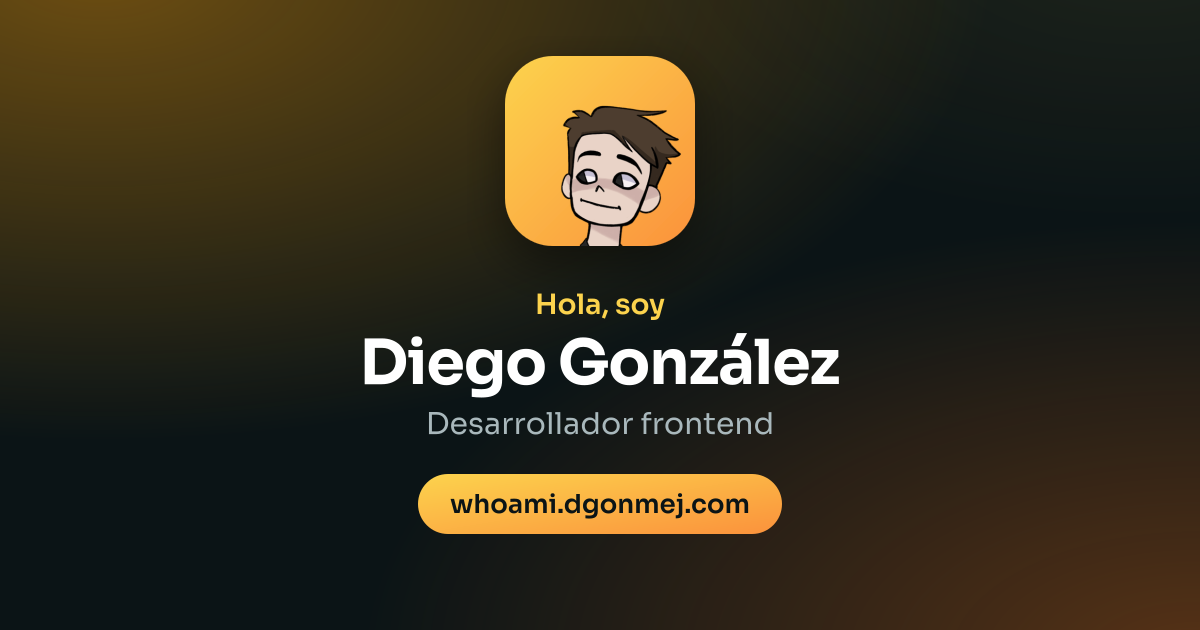
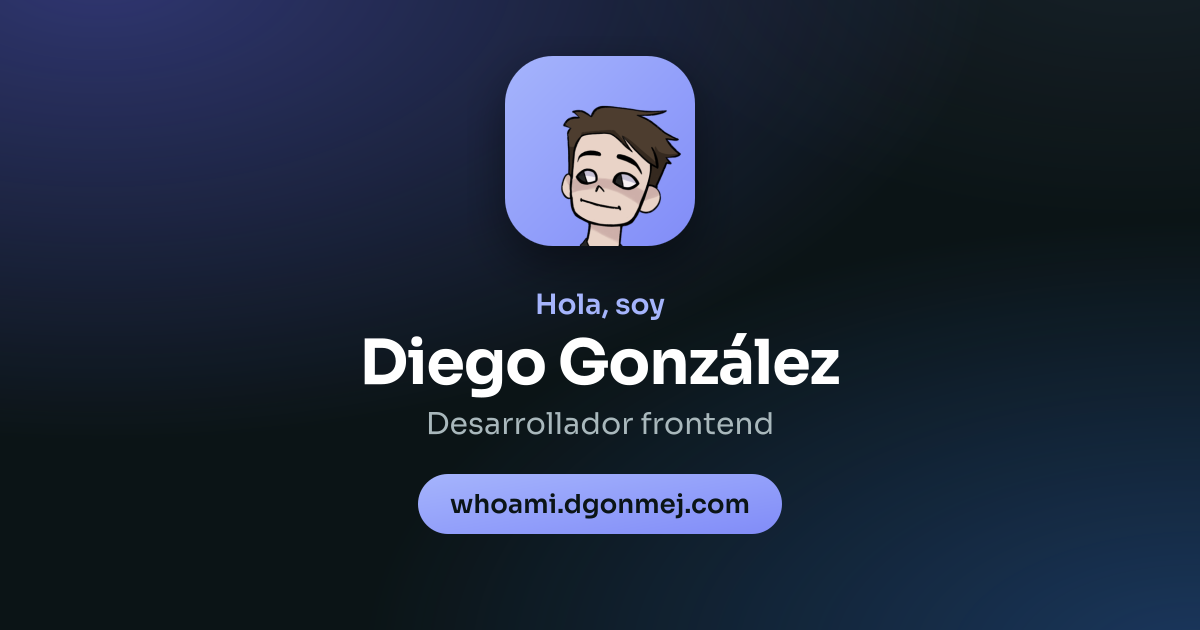
Switch whoami to the Índigo colour

diff --git a/src/styles/global.css b/src/styles/global.css
@@ -1,83 +1,83 @@
 /*
  * Estilos de whoami. Los componentes vienen de dgonmej-ui; aquí se personalizan sus tokens y se maqueta la página.
- * Color de la familia dgonmej: Atardecer (ámbar a naranja) (manual de marca en Code/brand) y Sora como fuente.
+ * Color de la familia dgonmej: Índigo (lavanda a índigo) (manual de marca en Code/brand) y Sora como fuente.
  * Todos los pares de color cumplen WCAG AA: el acento sobre el fondo y el texto de los botones.
  */
 
 :root {
   --ui-font-family: 'Sora', -apple-system, BlinkMacSystemFont, system-ui, sans-serif;
   --ui-font-family-display: 'Sora', -apple-system, BlinkMacSystemFont, system-ui, sans-serif;
-  --ui-color-primary: #c2410c;
-  --ui-color-primary-hover: #9a3412;
-  --ui-color-primary-text: #c2410c;
-  --ui-color-primary-tint: rgb(194 65 12 / 0.12);
-  --ui-color-primary-glow: rgb(194 65 12 / 0.35);
-  --ui-color-focus: #c2410c;
+  --ui-color-primary: #4338ca;
+  --ui-color-primary-hover: #3730a3;
+  --ui-color-primary-text: #4338ca;
+  --ui-color-primary-tint: rgb(67 56 202 / 0.12);
+  --ui-color-primary-glow: rgb(67 56 202 / 0.35);
+  --ui-color-focus: #4338ca;
   --ui-color-primary-contrast: #ffffff;
-  --ui-gradient-primary: linear-gradient(180deg, #d4520f 0%, #c2410c 100%);
+  --ui-gradient-primary: linear-gradient(180deg, #4f46e5 0%, #4338ca 100%);
   --ui-gradient-ambient:
-    radial-gradient(60% 50% at 8% 0%, rgb(245 158 11 / 0.16), transparent 70%),
-    radial-gradient(50% 45% at 100% 8%, rgb(249 115 22 / 0.14), transparent 70%),
+    radial-gradient(60% 50% at 8% 0%, rgb(99 102 241 / 0.16), transparent 70%),
+    radial-gradient(50% 45% at 100% 8%, rgb(59 130 246 / 0.14), transparent 70%),
     radial-gradient(55% 50% at 60% 100%, rgb(236 72 153 / 0.07), transparent 70%);
   /* Colores del aro de la foto de perfil (avatar de dgonmej-ui) */
-  --ui-color-ring-1: #f59e0b;
-  --ui-color-ring-2: #fb923c;
-  --ui-color-ring-3: #fcd34d;
+  --ui-color-ring-1: #6366f1;
+  --ui-color-ring-2: #818cf8;
+  --ui-color-ring-3: #a5b4fc;
   /* Retrato de la cabecera */
   --site-portrait:
-    radial-gradient(70% 60% at 20% 15%, #fcd34d, transparent 70%),
-    radial-gradient(60% 60% at 90% 90%, #fb923c, transparent 70%),
-    linear-gradient(160deg, #f59e0b, #c2410c);
+    radial-gradient(70% 60% at 20% 15%, #c7d2fe, transparent 70%),
+    radial-gradient(60% 60% at 90% 90%, #818cf8, transparent 70%),
+    linear-gradient(160deg, #6366f1, #4338ca);
   --site-max: 1120px;
 }
 
 [data-theme='dark'] {
-  --ui-color-primary: #fb923c;
-  --ui-color-primary-hover: #fdba74;
-  --ui-color-primary-text: #fb923c;
-  --ui-color-primary-tint: rgb(251 146 60 / 0.18);
-  --ui-color-primary-glow: rgb(251 146 60 / 0.35);
-  --ui-color-focus: #fb923c;
+  --ui-color-primary: #a5b4fc;
+  --ui-color-primary-hover: #c7d2fe;
+  --ui-color-primary-text: #a5b4fc;
+  --ui-color-primary-tint: rgb(165 180 252 / 0.18);
+  --ui-color-primary-glow: rgb(165 180 252 / 0.35);
+  --ui-color-focus: #a5b4fc;
   --ui-color-primary-contrast: #0b1416;
-  --ui-gradient-primary: linear-gradient(180deg, #fdba74 0%, #fb923c 100%);
+  --ui-gradient-primary: linear-gradient(180deg, #c7d2fe 0%, #a5b4fc 100%);
   --ui-gradient-ambient:
-    radial-gradient(60% 50% at 8% 0%, rgb(245 158 11 / 0.2), transparent 70%),
-    radial-gradient(50% 45% at 100% 8%, rgb(249 115 22 / 0.12), transparent 70%),
+    radial-gradient(60% 50% at 8% 0%, rgb(99 102 241 / 0.2), transparent 70%),
+    radial-gradient(50% 45% at 100% 8%, rgb(59 130 246 / 0.12), transparent 70%),
     radial-gradient(55% 50% at 60% 100%, rgb(236 72 153 / 0.05), transparent 70%);
   /* Colores del aro de la foto de perfil (avatar de dgonmej-ui) */
-  --ui-color-ring-1: #c2410c;
-  --ui-color-ring-2: #b45309;
-  --ui-color-ring-3: #fb923c;
+  --ui-color-ring-1: #4338ca;
+  --ui-color-ring-2: #1d4ed8;
+  --ui-color-ring-3: #a5b4fc;
   /* Retrato de la cabecera */
   --site-portrait:
-    radial-gradient(70% 60% at 20% 15%, #78350f, transparent 70%),
-    radial-gradient(60% 60% at 90% 90%, #7c2d12, transparent 70%),
-    linear-gradient(160deg, #9a3412, #431407);
+    radial-gradient(70% 60% at 20% 15%, #312e81, transparent 70%),
+    radial-gradient(60% 60% at 90% 90%, #1e3a8a, transparent 70%),
+    linear-gradient(160deg, #3730a3, #1e1b4b);
 }
 
 @media (prefers-color-scheme: dark) {
   :root:not([data-theme='light']) {
-    --ui-color-primary: #fb923c;
-    --ui-color-primary-hover: #fdba74;
-    --ui-color-primary-text: #fb923c;
-    --ui-color-primary-tint: rgb(251 146 60 / 0.18);
-    --ui-color-primary-glow: rgb(251 146 60 / 0.35);
-    --ui-color-focus: #fb923c;
+    --ui-color-primary: #a5b4fc;
+    --ui-color-primary-hover: #c7d2fe;
+    --ui-color-primary-text: #a5b4fc;
+    --ui-color-primary-tint: rgb(165 180 252 / 0.18);
+    --ui-color-primary-glow: rgb(165 180 252 / 0.35);
+    --ui-color-focus: #a5b4fc;
     --ui-color-primary-contrast: #0b1416;
-    --ui-gradient-primary: linear-gradient(180deg, #fdba74 0%, #fb923c 100%);
+    --ui-gradient-primary: linear-gradient(180deg, #c7d2fe 0%, #a5b4fc 100%);
     --ui-gradient-ambient:
-      radial-gradient(60% 50% at 8% 0%, rgb(245 158 11 / 0.2), transparent 70%),
-      radial-gradient(50% 45% at 100% 8%, rgb(249 115 22 / 0.12), transparent 70%),
+      radial-gradient(60% 50% at 8% 0%, rgb(99 102 241 / 0.2), transparent 70%),
+      radial-gradient(50% 45% at 100% 8%, rgb(59 130 246 / 0.12), transparent 70%),
       radial-gradient(55% 50% at 60% 100%, rgb(236 72 153 / 0.05), transparent 70%);
     /* Colores del aro de la foto de perfil (avatar de dgonmej-ui) */
-    --ui-color-ring-1: #c2410c;
-    --ui-color-ring-2: #b45309;
-    --ui-color-ring-3: #fb923c;
+    --ui-color-ring-1: #4338ca;
+    --ui-color-ring-2: #1d4ed8;
+    --ui-color-ring-3: #a5b4fc;
     /* Retrato de la cabecera */
     --site-portrait:
-      radial-gradient(70% 60% at 20% 15%, #78350f, transparent 70%),
-      radial-gradient(60% 60% at 90% 90%, #7c2d12, transparent 70%),
-      linear-gradient(160deg, #9a3412, #431407);
+      radial-gradient(70% 60% at 20% 15%, #312e81, transparent 70%),
+      radial-gradient(60% 60% at 90% 90%, #1e3a8a, transparent 70%),
+      linear-gradient(160deg, #3730a3, #1e1b4b);
   }
 }
 
